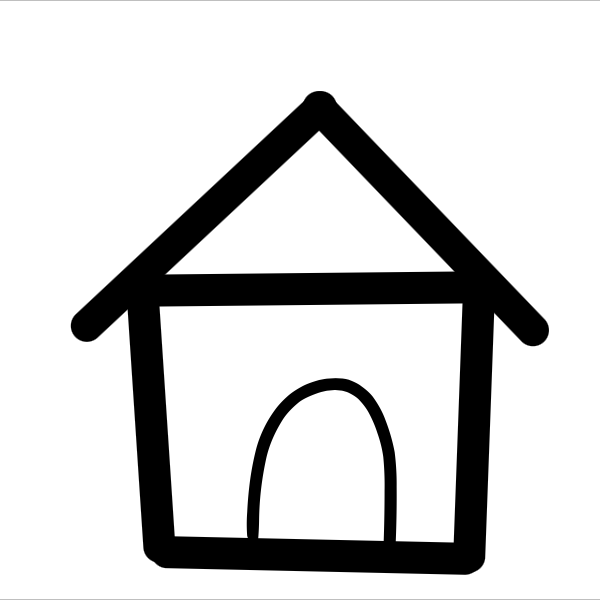
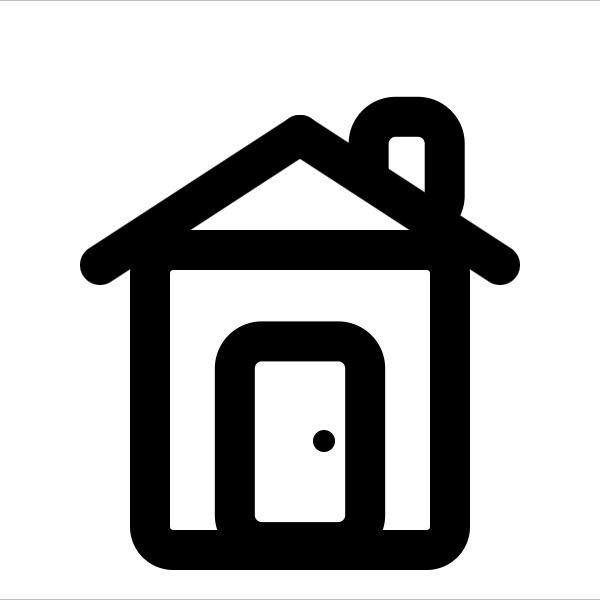
💄Changed the home button in the nav bar. Also restyled the table on the posts page.

diff --git a/posts/index.html b/posts/index.html
@@ -15,9 +15,9 @@
     <table class="postTable">
       <thead>
         <tr>
-          <td>Date Written (MM/DD/YYYY)</td>
-          <td>Date of Occurence (MM/DD/YYYY)</td>
-          <td>Title (All Lowercase)</td>
+          <th>Date Written (MM/DD/YYYY)</th>
+          <th>Date of Occurence (MM/DD/YYYY)</th>
+          <th>Title (All Lowercase)</th>
         </tr>
       </thead>
       <tbody>

diff --git a/posts/index.css b/posts/index.css
@@ -1,5 +1,15 @@
 .postTable {
-  border-collapse: collapse;
+  border-spacing: 0px;
+  border: 3px solid black;
+  border-radius: 1ch;
+}
+
+.postTable thead {
+  border: 2px solid black;
+  background-color: lightgrey;
+}
+
+.postTable th {
   border: 2px solid black;
 }
 
